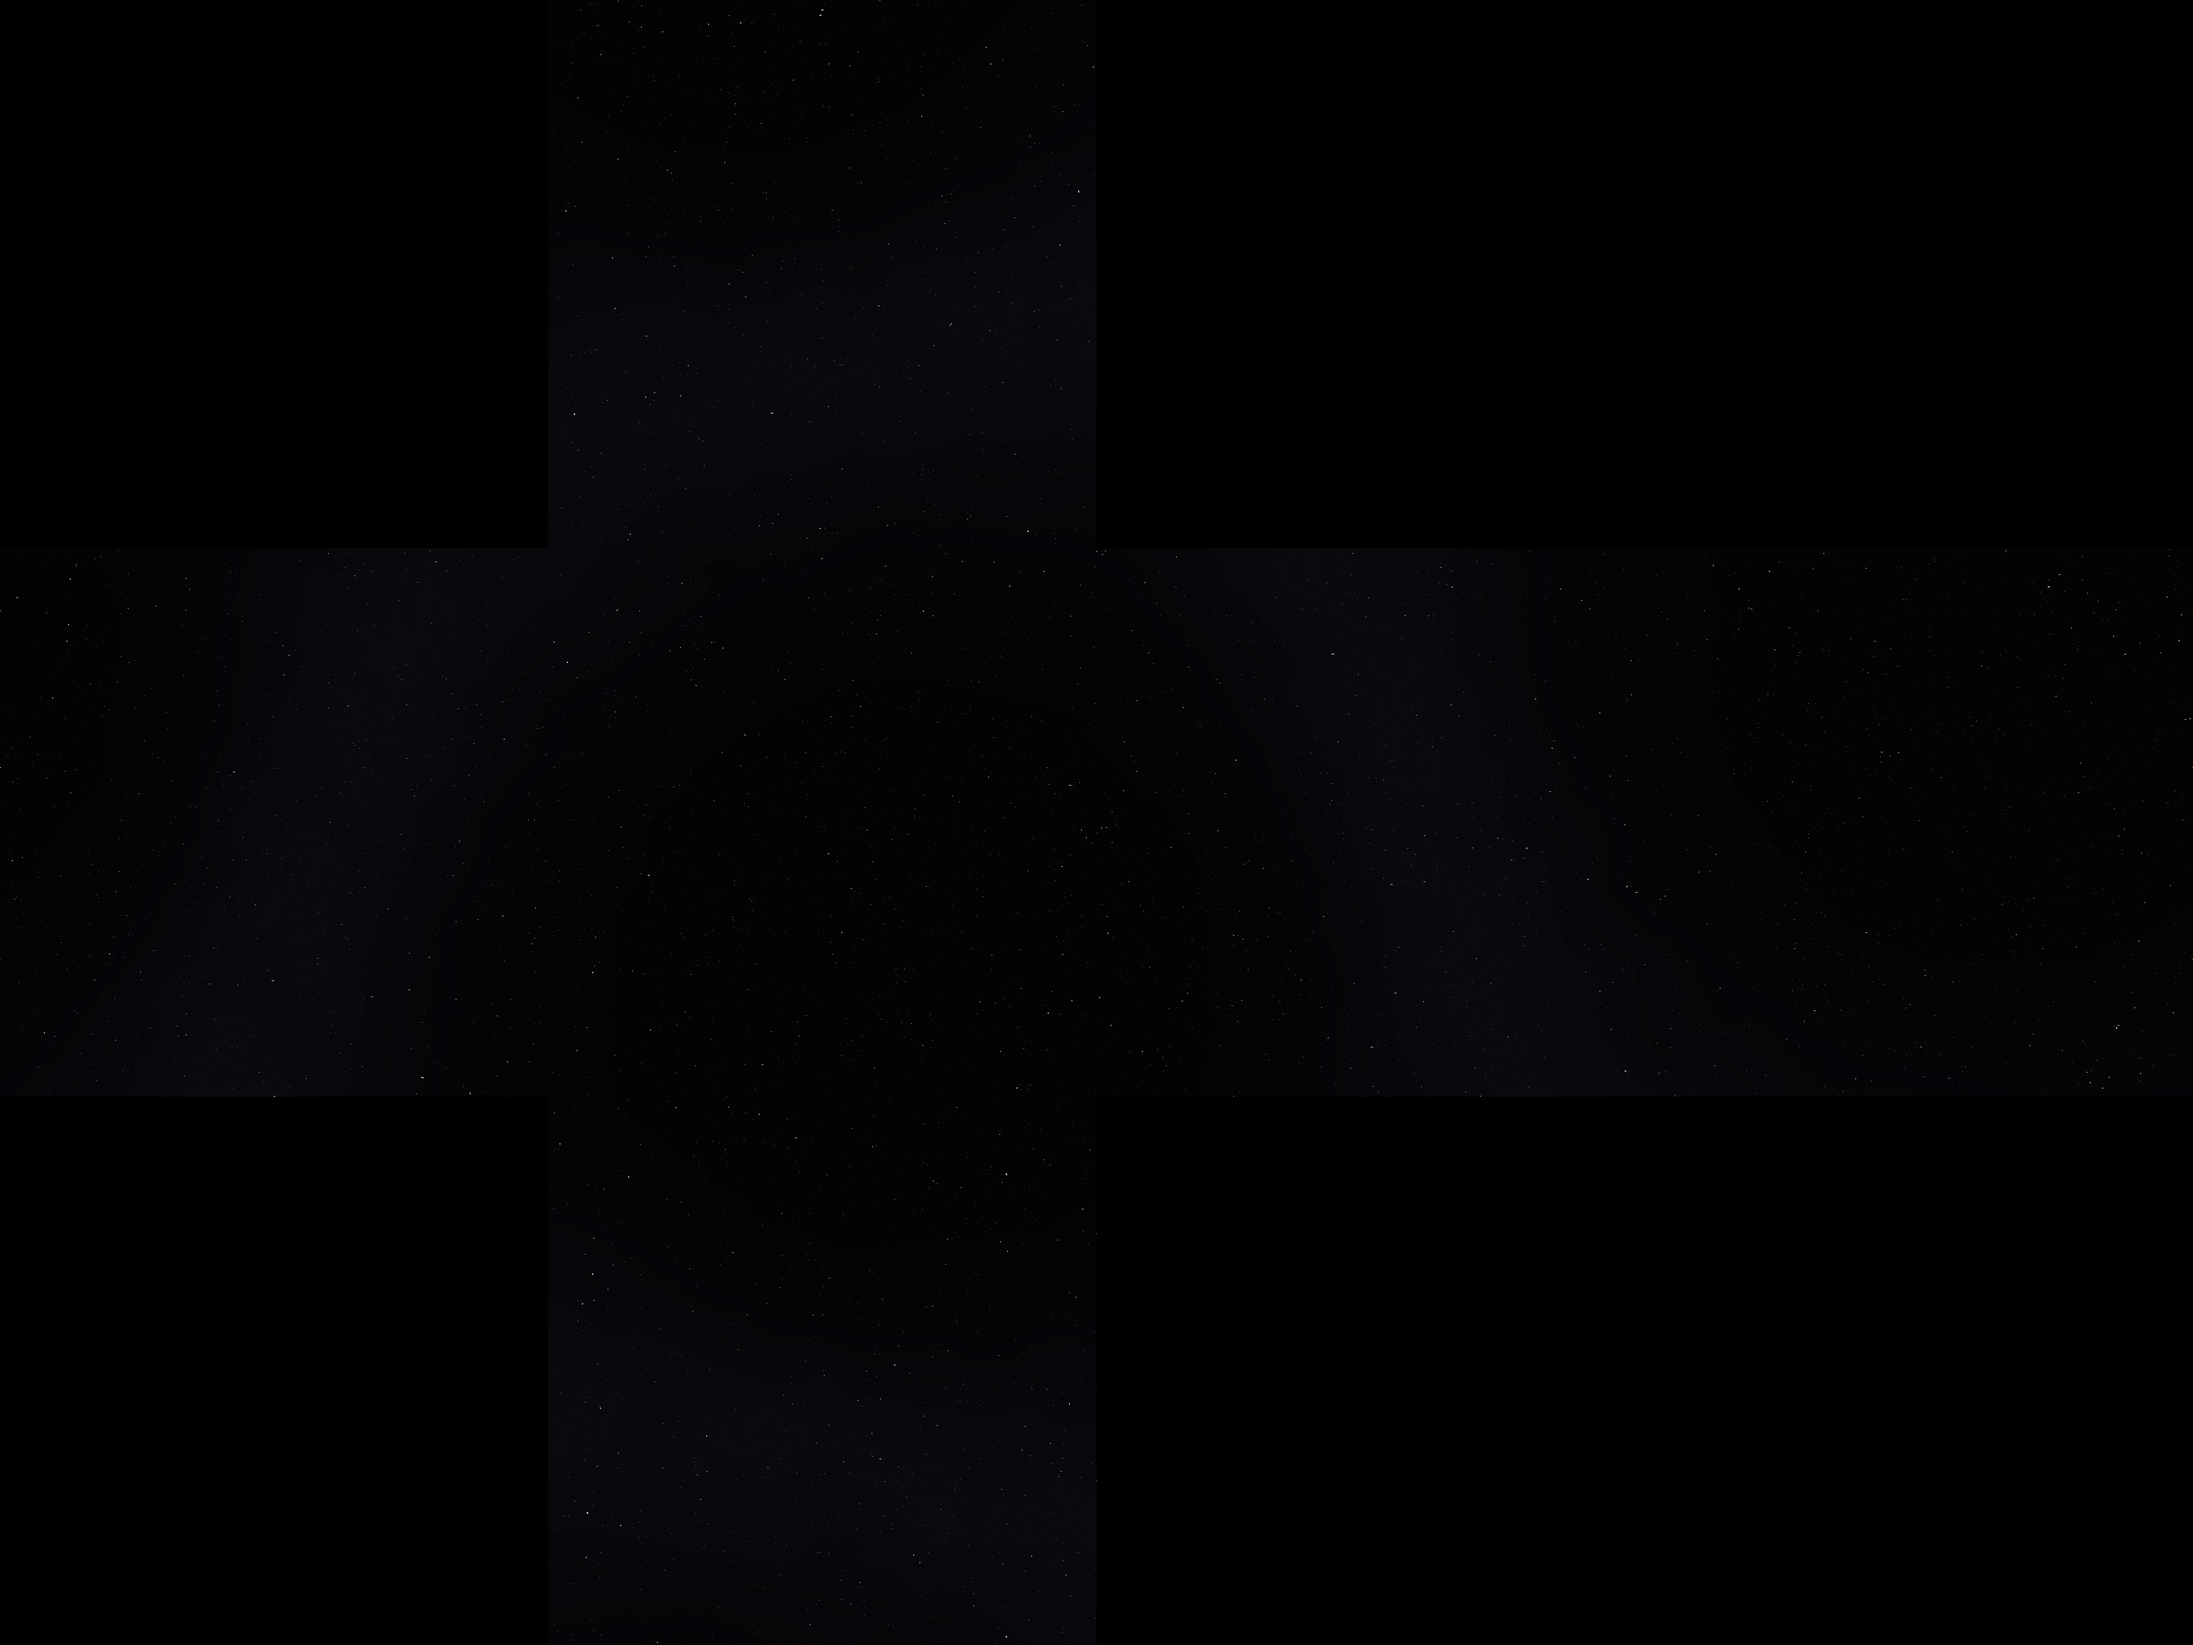
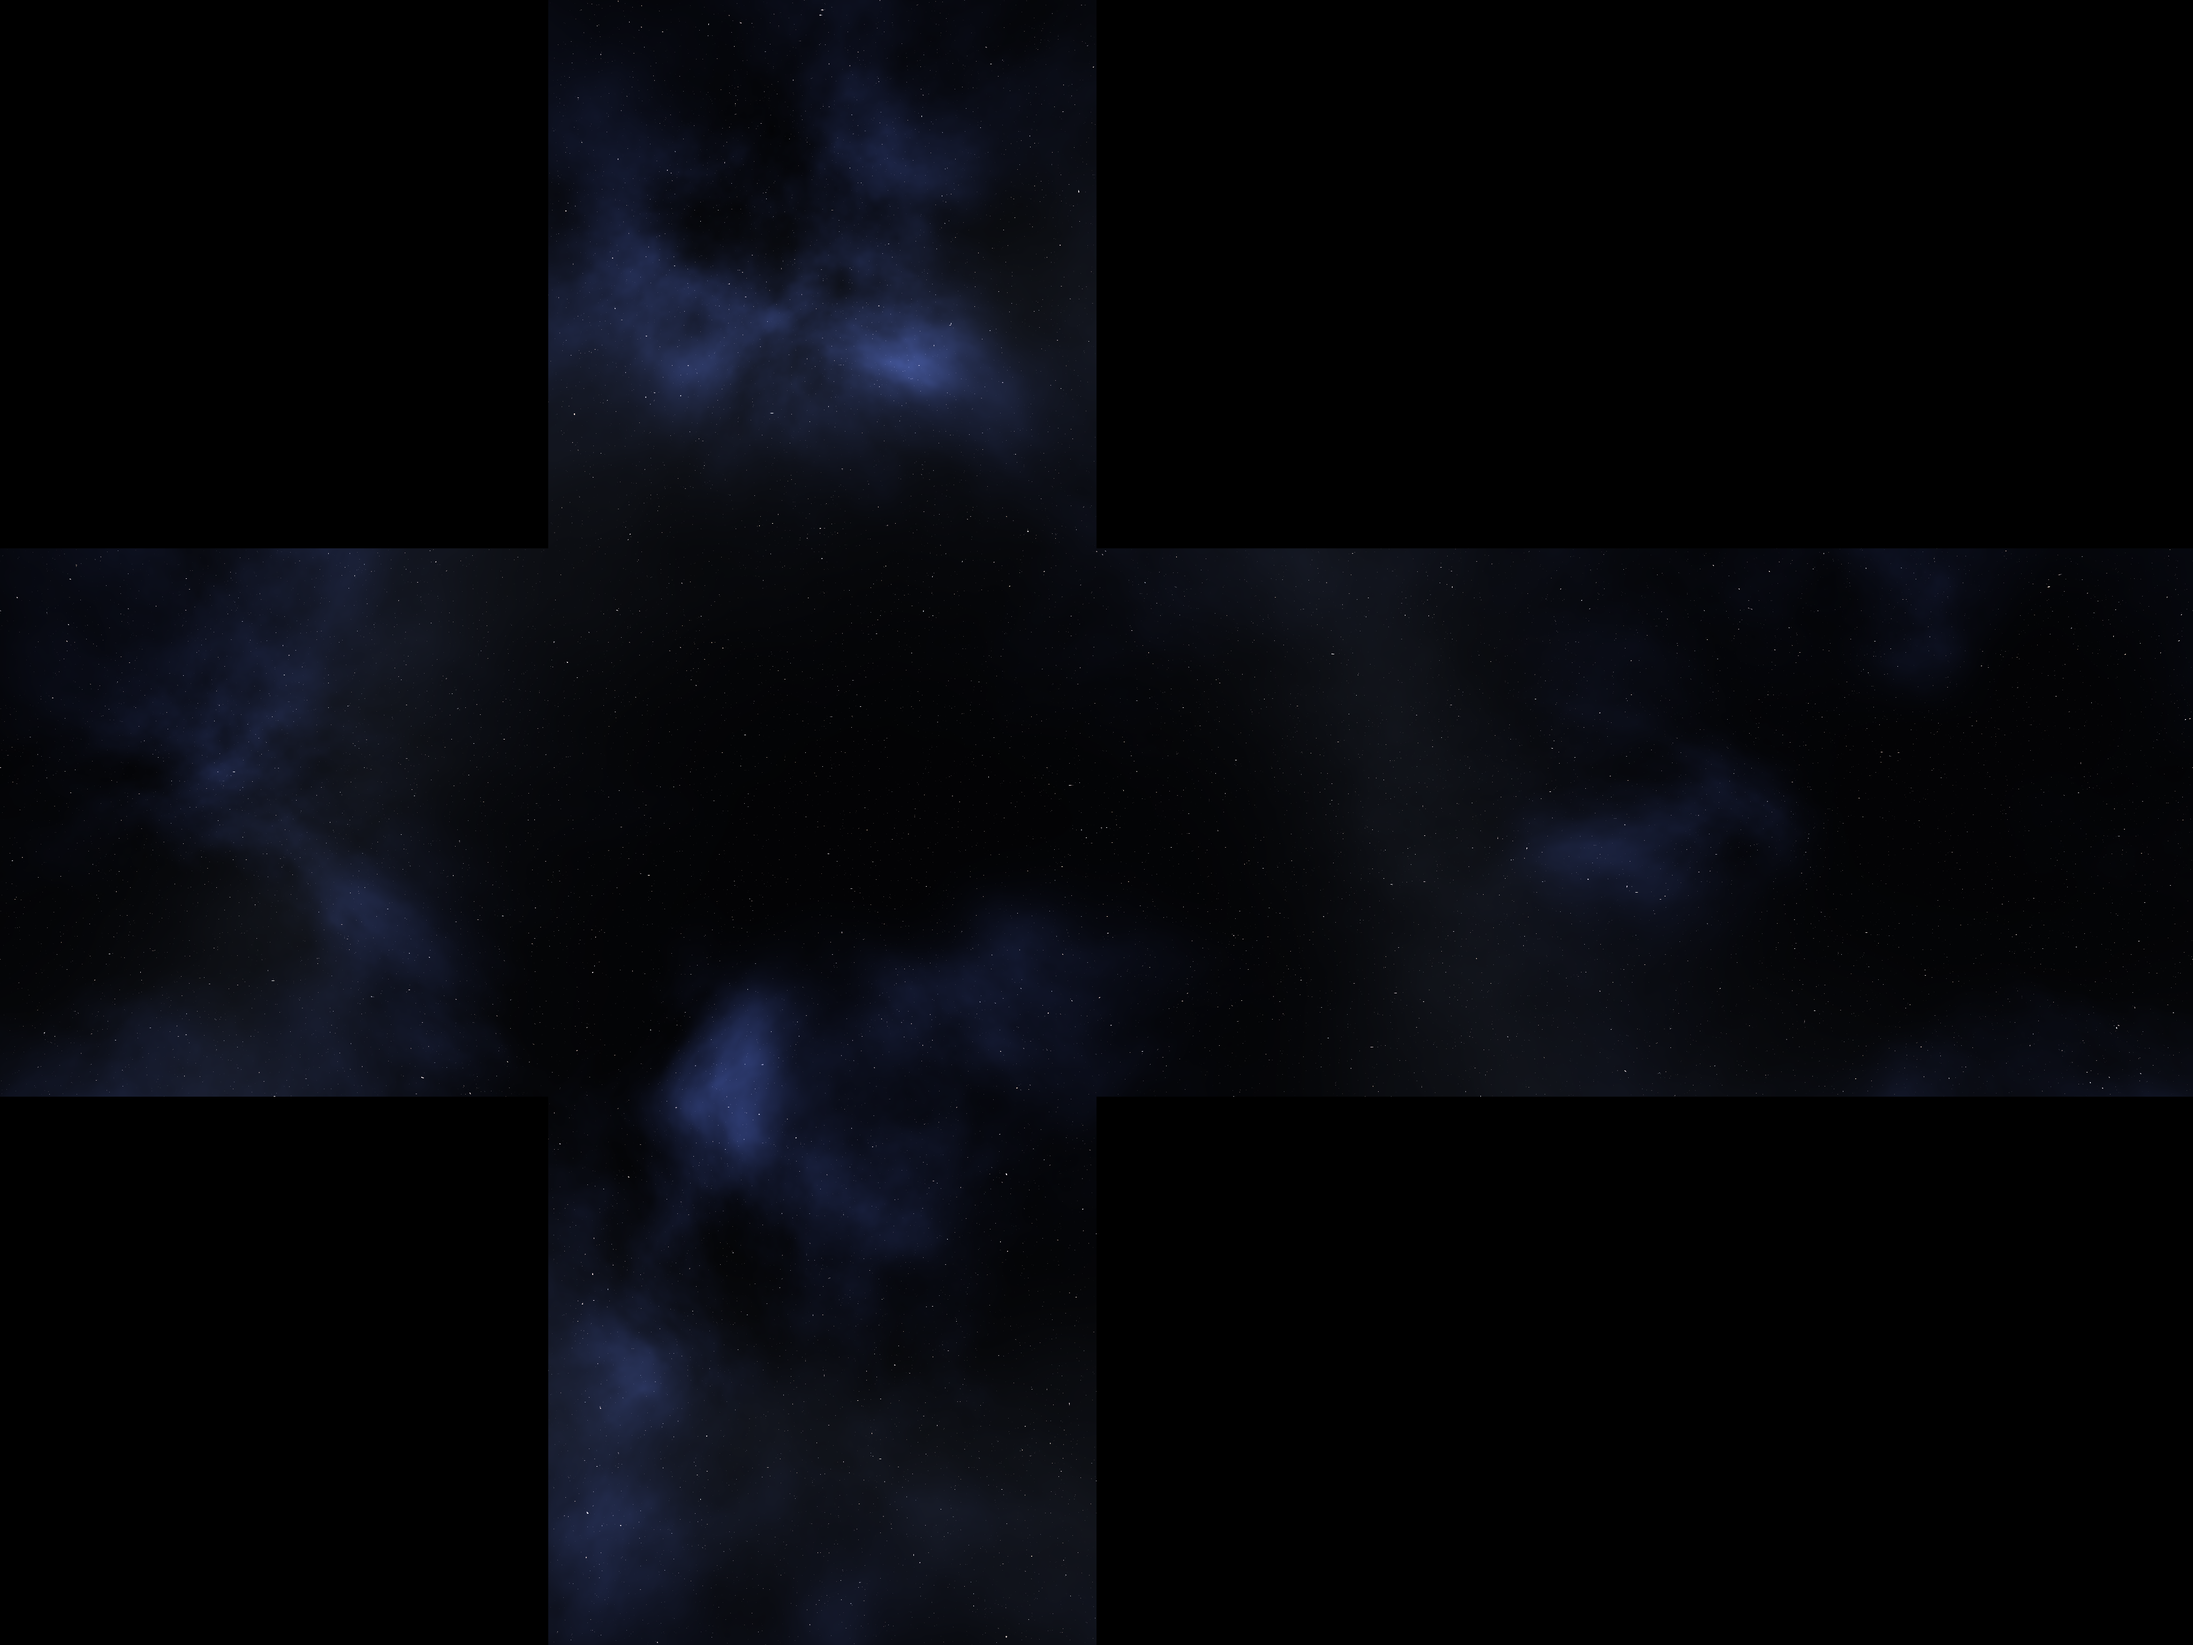
Retune the skies to the house brightness, measured not assumed
The first set argued from the show - TNG space is nearly black - and landed at a
mean luminance around 7, against stock sky1.png at 21.6 and sky1-ds9.png at 50.9.
Three to seven times darker than anything the engine ships. Defensible on canon
and wrong in practice: beside stock content they read as empty, and on a lit
television in a room full of people a near-black sky reads as a fault rather than
as restraint.

So brightness is now SOLVED rather than dialled. `--stats` reports mean luminance
against those stock references, and `--solve` bisects neb_amp until each sky hits
its entry in TARGET_MEAN. The mask and gamma set the character of a sky; amplitude
is only the volume knob, and it is the one parameter worth solving for.

Targets keep the set separated rather than uniformly loud: tng_deep sits at 13,
below stock on purpose, for crews who should be reading ships instead of scenery;
Delta is the loud one at 24; the Neutral Zone stays the emptiest sky in the set at
16 while no longer being black.

Seam scores rose from 0.87-1.19 to 1.19-1.41 (stock sky1.png is 1.01, a scrambled
face is 21). That is expected and not a regression: the score compares pixels
across the cross's internal borders, so a brighter, higher-contrast nebula scores
worse for the same geometry. The authority is the analytic check, and it is
unchanged - the generator still asserts handedness per face and walks all twelve
cube edges at import, which is the test a border score cannot make.
[…]

diff --git a/_tools/gen_skybox_tng.py b/_tools/gen_skybox_tng.py
@@ -14,12 +14,18 @@ defect nobody can unsee once the ship turns. Here every pixel is a pure function
 direction, so two faces sharing an edge sample the same directions and produce the same
 pixels. Continuity is not repaired afterwards - it cannot fail.
 
-THE LOOK IS DELIBERATELY SPARSE. Real TNG space is close to black: a fine, cold starfield,
-and at most a faint wash of colour somewhere off-axis. The temptation with a nebula
-generator is to fill the sky, and a filled sky reads as a 90s screensaver, drowns the ship
-models, and makes every trial look the same. So `neb_amp` is low everywhere, the nebula is
-MASKED to one region of sky rather than spread evenly, and the default variant has almost
-none at all. If a sky looks impressive on its own it is probably too loud to fly in.
+HOW BRIGHT, AND WHY IT WAS MEASURED RATHER THAN ASSUMED. The first pass argued from the
+show - real TNG space is nearly black - and produced skies with a mean luminance around 7
+against stock `sky1.png` at 21.6 and `sky1-ds9.png` at 50.9. Three to seven times darker
+than anything the engine ships. Defensible on canon and wrong in practice: they read as
+empty beside stock content, and on a lit television in a room full of people a near-black
+sky reads as a fault rather than as restraint.
+
+So the target is the HOUSE style, checked with `--stats`: themed skies land near stock
+`sky1` (mean ~18-26), and `tng_deep` stays deliberately quieter (~11-14) as the one for
+crews who should be looking at ships instead of scenery. The nebula is still MASKED to a
+region rather than spread evenly - a uniform fog is what makes every map look alike - but
+the masked region is now genuinely lit.
 
 GEOMETRY IS ASSERTED AT IMPORT, not trusted. `_assert_geometry()` checks the handedness
 invariant per face and walks all twelve cube edges numerically. The 4x3 cross only exposes
@@ -270,6 +276,17 @@ DEFAULTS = dict(
 )
 
 
+# Where each sky should land on mean luminance. Stock: sky1 21.6, sky1-ds9 50.9.
+TARGET_MEAN = {
+    "tng_deep": 13.0,          # the restrained one - ships should out-read the scenery
+    "tng_klingon_border": 21.0,
+    "tng_bajor": 23.0,
+    "tng_neutral_zone": 16.0,  # still the emptiest sky in the set, but no longer black
+    "tng_delta": 24.0,         # the loud one
+    "tng_wolf359": 17.0,
+}
+
+
 def _v(**kw):
     p = dict(DEFAULTS)
     p.update(kw)
@@ -281,9 +298,9 @@ VARIANTS = {
     # The house sky. Almost nothing but stars - this is what TNG actually looks like, and
     # it is the one that should come up most often.
     "tng_deep": ("TNG Deep Space", _v(
-        seed=11, neb_amp=0.16, band_amp=0.07,
-        neb_lo=(0.06, 0.09, 0.20), neb_hi=(0.16, 0.22, 0.42),
-        neb_mask_lo=0.62, neb_mask_hi=0.86,
+        seed=11, neb_amp=2.11, band_amp=0.16, neb_floor=0.34,
+        neb_lo=(0.09, 0.12, 0.26), neb_hi=(0.26, 0.34, 0.62),
+        neb_mask_lo=0.30, neb_mask_hi=0.66, neb_gamma=1.30,
     )),
 
     # Klingon border. Cold iron with a low red wash - used for the Kobayashi Maru and the
@@ -291,9 +308,9 @@ VARIANTS = {
     "tng_klingon_border": ("Klingon Border", _v(
         seed=23, base=(0.017, 0.011, 0.012),
         band_axis=(0.4, 1.0, -0.2), band_amp=0.09, band_color=(0.50, 0.36, 0.34),
-        neb_amp=0.50, neb_scale=1.8, neb_gamma=1.8,
-        neb_lo=(0.20, 0.05, 0.05), neb_hi=(0.62, 0.20, 0.14),
-        neb_mask_lo=0.54, neb_mask_hi=0.80,
+        neb_amp=2.07, neb_scale=1.8, neb_gamma=1.25, neb_floor=0.26,
+        neb_lo=(0.30, 0.07, 0.08), neb_hi=(0.82, 0.26, 0.20),
+        neb_mask_lo=0.26, neb_mask_hi=0.62,
         star_warm=0.55,
     )),
 
@@ -301,9 +318,9 @@ VARIANTS = {
     "tng_bajor": ("Bajoran System", _v(
         seed=37, base=(0.014, 0.014, 0.019),
         band_axis=(-0.3, 1.0, 0.5), band_amp=0.11, band_color=(0.52, 0.46, 0.40),
-        neb_amp=0.44, neb_scale=1.6,
-        neb_lo=(0.24, 0.14, 0.05), neb_hi=(0.66, 0.44, 0.16),
-        neb_mask_lo=0.52, neb_mask_hi=0.78,
+        neb_amp=1.92, neb_scale=1.6, neb_gamma=1.25, neb_floor=0.26,
+        neb_lo=(0.30, 0.18, 0.07), neb_hi=(0.84, 0.58, 0.24),
+        neb_mask_lo=0.26, neb_mask_hi=0.64,
         sun_amp=0.55, sun_dir=(-0.6, 0.25, 0.5), sun_tight=70.0,
         sun_color=(1.0, 0.90, 0.72),
         star_warm=0.40,
@@ -314,9 +331,9 @@ VARIANTS = {
     "tng_neutral_zone": ("Romulan Neutral Zone", _v(
         seed=53, base=(0.010, 0.015, 0.016),
         band_axis=(0.1, 1.0, 0.7), band_amp=0.06, band_color=(0.33, 0.50, 0.46),
-        neb_amp=0.26, neb_scale=1.4, neb_gamma=2.1,
-        neb_lo=(0.05, 0.16, 0.13), neb_hi=(0.14, 0.42, 0.34),
-        neb_mask_lo=0.60, neb_mask_hi=0.88,
+        neb_amp=1.72, neb_scale=1.4, neb_gamma=1.30, neb_floor=0.27,
+        neb_lo=(0.06, 0.20, 0.17), neb_hi=(0.20, 0.52, 0.44),
+        neb_mask_lo=0.30, neb_mask_hi=0.68,
         star_big_gain=0.95, star_warm=0.10,
     )),
 
@@ -324,9 +341,9 @@ VARIANTS = {
     "tng_delta": ("Delta Quadrant", _v(
         seed=71, base=(0.012, 0.017, 0.018),
         band_axis=(0.8, 1.0, 0.1), band_amp=0.13, band_color=(0.36, 0.54, 0.50),
-        neb_amp=0.72, neb_scale=2.6, neb_warp=0.75, neb_gamma=1.4,
-        neb_lo=(0.06, 0.22, 0.20), neb_hi=(0.30, 0.66, 0.52),
-        neb_mask_lo=0.44, neb_mask_hi=0.72,
+        neb_amp=1.81, neb_scale=2.6, neb_warp=0.75, neb_gamma=1.2, neb_floor=0.28,
+        neb_lo=(0.08, 0.28, 0.26), neb_hi=(0.36, 0.80, 0.64),
+        neb_mask_lo=0.28, neb_mask_hi=0.62,
         star_warm=0.20,
     )),
 
@@ -334,9 +351,9 @@ VARIANTS = {
     "tng_wolf359": ("Wolf 359", _v(
         seed=97, base=(0.011, 0.013, 0.020),
         band_axis=(-0.5, 1.0, -0.3), band_amp=0.08, band_color=(0.34, 0.42, 0.60),
-        neb_amp=0.22, neb_scale=1.9, neb_gamma=2.2,
-        neb_lo=(0.05, 0.08, 0.18), neb_hi=(0.14, 0.20, 0.40),
-        neb_mask_lo=0.62, neb_mask_hi=0.90,
+        neb_amp=3.35, neb_scale=1.9, neb_gamma=1.30, neb_floor=0.27,
+        neb_lo=(0.06, 0.10, 0.24), neb_hi=(0.20, 0.30, 0.58),
+        neb_mask_lo=0.30, neb_mask_hi=0.66,
         sun_amp=0.30, sun_dir=(0.3, -0.15, 0.9), sun_tight=140.0,
         sun_color=(0.78, 0.86, 1.0),
         star_warm=0.05,
@@ -353,7 +370,40 @@ def main():
     ap.add_argument("--equirect", action="store_true", help="also write a flat preview")
     ap.add_argument("--equirect-only", action="store_true", help="preview only, no cross")
     ap.add_argument("--list", action="store_true")
+    ap.add_argument("--stats", action="store_true", help="mean luminance vs the stock skies")
+    ap.add_argument("--solve", action="store_true", help="bisect neb_amp to hit TARGET_MEAN")
     a = ap.parse_args()
+
+    if a.solve:
+        # Brightness is the one parameter worth SOLVING rather than dialling: the mask and
+        # gamma set the character of a sky, and amplitude is then just the volume knob.
+        # Targets are relative to the stock art (sky1 = 21.6) - tng_deep sits below it on
+        # purpose, the themed skies sit with it.
+        for k in ([a.only] if a.only else list(VARIANTS)):
+            title, p = dict(VARIANTS)[k][0], dict(VARIANTS)[k][1]
+            want = TARGET_MEAN.get(k, 20.0)
+            lo, hi = 0.0, 4.0
+            for _ in range(10):
+                mid = (lo + hi) / 2.0
+                q = dict(p); q["neb_amp"] = mid
+                got = np.asarray(build_equirect(q, width=384), np.float32).mean()
+                if got < want:
+                    lo = mid
+                else:
+                    hi = mid
+            print("%-22s neb_amp=%.2f  -> mean %.1f (target %.0f)" % (k, (lo + hi) / 2.0, got, want))
+        return
+
+    if a.stats:
+        # Mean luminance is the fastest honest read on "does this sit with the stock art".
+        # Stock references, measured from data/graphics: sky1 21.6, sky1-ds9 50.9.
+        for k in ([a.only] if a.only else list(VARIANTS)):
+            title, p = VARIANTS[k]
+            px = np.asarray(build_equirect(p, width=512), np.float32)
+            lum = px.mean(-1)
+            print("%-22s mean %5.1f   >40 %5.2f%%   %s" % (
+                k, lum.mean(), (lum > 40).mean() * 100.0, title))
+        return
 
     if a.list:
         for k, (title, _p) in VARIANTS.items():
